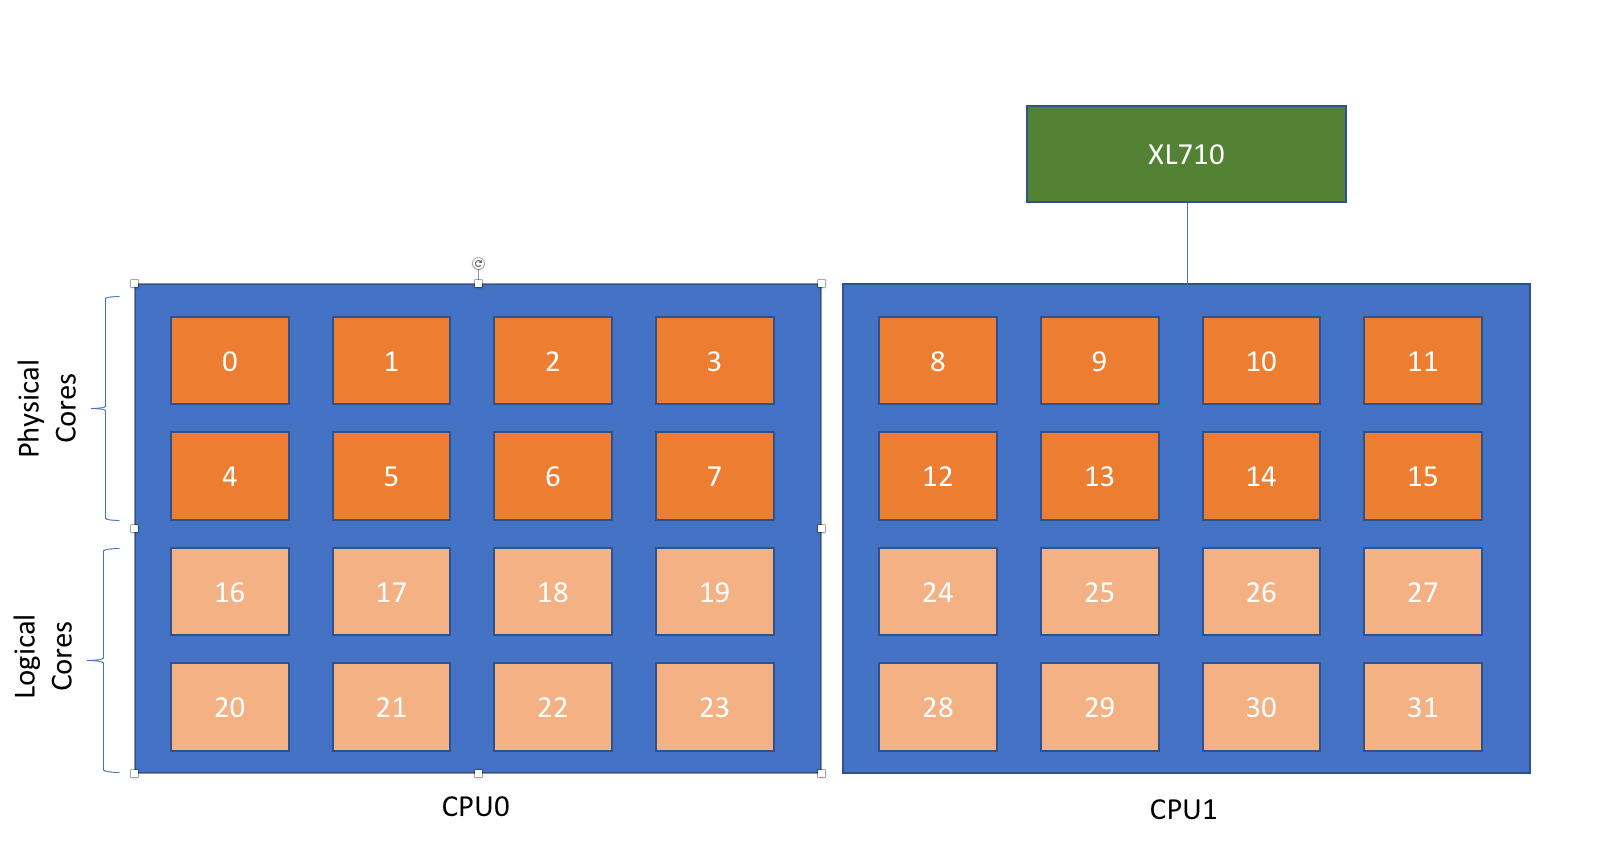
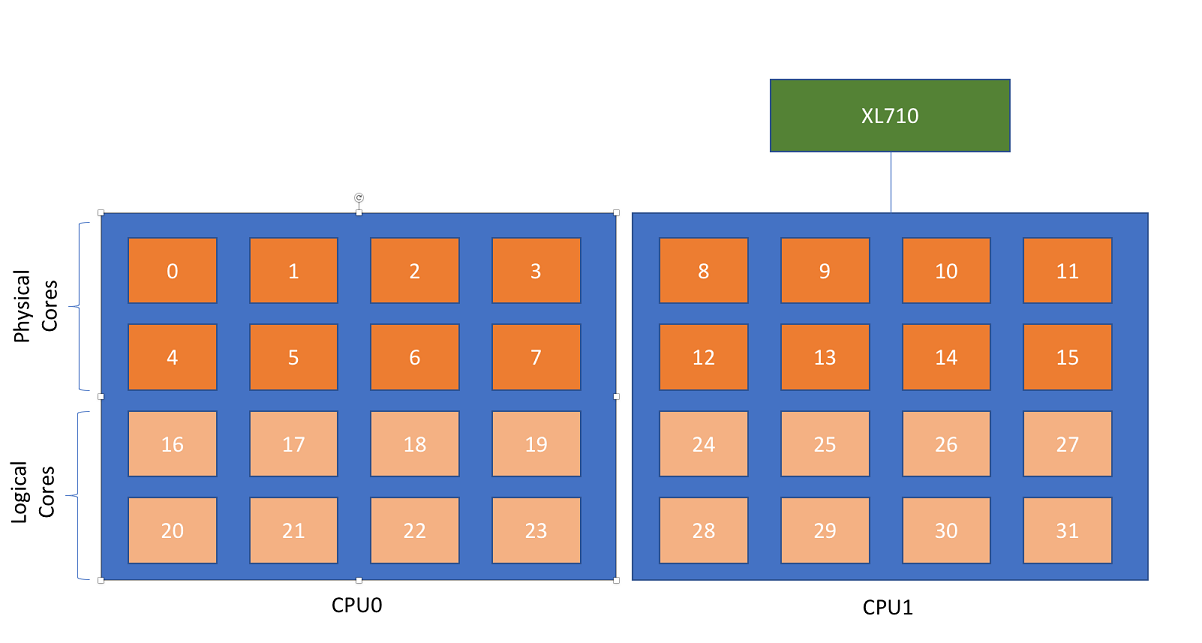
Added Network Design + Deployment Guide (#31)
* Add network documentation

* added missing pic

* wrong filetype

* correct png filetype

* fix text issue

* Set text as bold for now

* change list to bullets

* test fix

* spacing issue

* centered wording

* add to index

* shrink image sizes

* Shrink pics a little more

Changed region(s): [[0.0, 0.7465, 0.0308, 0.7776]]

diff --git a/docs/network_design_and_deployment.rst b/docs/network_design_and_deployment.rst
@@ -1,0 +1,184 @@
+===================================
+EDCOP Network Design and Deployment
+===================================
+
+.. contents::
+	:backlinks: none
+	
+
+
+Bill of Materials
+=================
+
++----------+---------------------------------+---------------------------------------------------------------+
+| Quantity | Product                         | Label                                                         |
++==========+=================================+===============================================================+
+| 1        | Cisco UCS C240-M5               | - 2 CPUS - Intel Xeon 4110 2.10GHz (8 cores, 16 threads each) |
+|          |                                 | - 196 GB of 2400 MHz RAM                                      |
+|          |                                 | - 1.7 TB x 10 drives                                          |
+|          |                                 | - Nodes (servers)                                             |
++----------+---------------------------------+---------------------------------------------------------------+
+| 1        | Arista 7050QX-32S               | Commodity 10/40 Gbps Switch                                   |
++----------+---------------------------------+---------------------------------------------------------------+
+| 1        | Juniper EX-3200                 | Commodity 1/10 Gbps Switch                                    |
++----------+---------------------------------+---------------------------------------------------------------+
+| 1        | 10Gtek CAB-QSFP/QSFP-P3M        | 40GBase DAC                                                   |
++----------+---------------------------------+---------------------------------------------------------------+
+| 5        | 10Gtek CAB-QSFP/4SFP-P3M        | 40Gb to (4) 10Gbps “octopus” or “break-out” cables            |
++----------+---------------------------------+---------------------------------------------------------------+
+| 6        | CAT-6 Ethernet Cables           |                                                               |
++----------+---------------------------------+---------------------------------------------------------------+
+| 1        | Gigamon Gigavue-HC2 (GVS-HC2A1) | Cards: SMT-HC0-X16, BPS-HC0-D25A4G (Inline/Passive TAP)       |
++----------+---------------------------------+---------------------------------------------------------------+
+| 6        | Intel XL710 40Gbps NIC          |                                                               |
++----------+---------------------------------+---------------------------------------------------------------+
+
+The Bill of Materials is used to build our reference architecture. Some assumed materials are:
+ - An upstream router to provide gateway and internet connectivity.
+ - Server rack with space and redundant power to house all the components.
+ 
+ 
+Installing the Hardware
+=======================
+ 
+Prior to racking and cabling your EDCOP cluster you must first install the Intel XL710 40/10Gbps NICs in each node, update their firmware and configure them to identify each port as a (4) 10Gbps port instead of (1) 40Gbps port.
+ 
+Upgrade the XL710 Firmware
+--------------------------
+ 
+Although there are numerous ways to perform the upgrade, it is recommended that the built-in EFI shell is utilized. This process has been verified as working. These instructions assume that is the case.
+ 
+These steps are as follows:
+ 
+1.	Power-off the server and install the Intel XL710-QDA2 card.
+2.	Copy the NVMUpdate EFI scripts onto a thumb-drive and insert into the USB port on the server.
+3.	Power-on the Server. When prompted, enter the BIOS boot selector menu and choose “EFI Shell” 
+4.	Follow the instructions at: https://www-ssl.intel.com/content/www/us/en/embedded/products/networking/nvm-update-tool-quick-efi-usage-guide.html
+5.	After this is complete, you may also utilize the Intel QCU utility to change the mode from 2x40 to 4x10.
+
+Converting from 2x40 to 4x10
+----------------------------
+
+The Intel XL710-QDA2 cards have two (2) QSFP+ ports. These cards can be utilized as either a single 40Gbps connection (with hot standby) using a QSFP+ to QSFP+ direct connect cable, or as four (4) 10Gbps connections using a break-out cable (also referred to as an octopus cable). This is convenient when connecting the card to a switch that only has 10Gbps interfaces.
+
+**NOTE: Upgrading of the firmware AND drivers must be done BEFORE attempting to change the mode.**
+
+Step for performing this are as follows:
+
+1.	Copy the QCU EFI utility to the thumb-drive. (https://downloadcenter.intel.com/download/25854/Intel-QSFP-Configuration-Utility-EFI-)
+2.	Reboot the server and enter the EFI shell. 
+3.	Follow the instructions at: https://downloadcenter.intel.com/download/25854/Intel-QSFP-Configuration-Utility-EFI
+
+	- For 2x40Gbps use: ``QCUW64E.EXE /NIC=3 /SET 2x40``
+	- For 4x10Gbps use: ``QCUW64E.EXE /NIC=3 /SET 4x10``
+
+
+Networks
+========
+
+.. image:: images/connectivity.png
+	:align: center
+
+When all of the components are cabled together it builds a couple small networks. There is a small 1Gbps network used for PXE booting the minions referred to as the “PXE network” (figure 1). A 10/40Gbps network for connecting the minions to the Arista switch called the “cluster network” (figure 2) while only the Master has a 40Gbps connection. No network traffic traverses either of those links, instead, only log events and sensor data traverses the 10/40Gbps backend network. 
+
+.. image:: images/edcop_network.png
+	:align: center
+
+PXE Network
+-----------
+
+The PXE Network is used by the minions on first boot so they can download the provisioning image from the Master. The PXE Network is not used for management throughout EDCOP.
+
+The management interface from each EDCOP node needs to be connected to a single broadcast domain. For cabling reference figure 1. This can be accomplished by connecting the 1Gb (typically) management interface from all the nodes to a single 1Gbps switch. Best practice is to create a new VLAN on the switch with the description or name “EDCOP-PXE”, and configure all ports connecting to the nodes to pass untagged traffic for that VLAN or as access ports in the specified VLAN.
+
+Once the Master is manually configured, it stands up its own DHCP server. As the minions boot they will request a DHCP address from the Master and begin to download the provisioning image. 
+
+Cluster Network
+---------------
+
+The Cluster Network is used for Node to Node communication. It is used to transmit and receive log events and sensor data, generated by the pods on each node back to the Master node. The TAP’d network traffic DOES NOT traverse these links. 
+
+The Minions each connect to the 40/10Gbps switch using the #1 link from the break-out cable from the above Bill of Materials. The Master uses a 40Gbps DAC connection to a 40Gbps interface on the switch.
+
+.. image:: images/backend.png
+	:align: center
+
+All the Cluster Network connections from the nodes to the switch should all be in a single VLAN. Best practice is to create a new VLAN on the 40/10Gbps switch with the name or description “EDCOP-CLUSTER” and configure all the Node facing interfaces as access ports or pass untagged traffic for the newly created VLAN.
+
+The EDCOP nodes will require external connectivity to fetch package updates and code/config deltas. You’ll need to configure an uplink to a router or gateway off of the 40/10Gbps switch so each of the nodes can reach-out to the internet or an externally hosted library. This will vary from installation to installation but a simple NAT gateway/boundary will work fine. 
+
+**Please have the upstream gateway defined/provisioned before completing the ‘first-boot’ process on the Master as it will do a network connectivity check before continuing.**
+
+
+Network TAP Connections
+=======================
+
+The tapping infrastructure is an integral part of our architecture. Currently every Minion has 3 connections to the TAP. Each connection uses one of the 3 remaining links from the break-out cable. The TAP itself must have ingress and egress interfaces available for the traffic you require visibility. 
+
+.. image:: images/tap_traffic_1.png
+	:align: center
+	
+As traffic ingresses the TAP from an untrusted/outside network it is load balanced across the Minions using session based persistence. The traffic traverses the tools/sensors on the Minions and is forwarded out towards the Gigamon. As the traffic passes through the Gigamon, to be forwarded towards your inside network, the traffic is TAP’d and sent to the Minions on the 3rd link where the traffic is observed by the passive tools. 
+
+.. image:: images/tap_traffic_2.png
+	:align: center
+	
+
+Deploy EDCOP as a Virtual Machine
+=================================
+
+If a virtual EDCOP is desired, deploying as a Virtual Machine (VM) can be a way to utilize your existing compute and storage resources. The networking stays mostly the same as described throughout this document however the implementation will be different. The example below will outline networking requirements and instructions for deploying EDCOP as a VM in VMware.
+
+Depending on your needs and design you may need to create up to 4 Port-Groups.
+
+- 1 Port-Group for a PXE Boot Network
+- 1 Port-Group for EDCOP cluster interfaces
+- 1 Port-Group for Inline-Ingress/Passive
+- 1 Port-Group for Inline-egress
+
+If you are deploying a “single” EDCOP VM for collecting syslog see architecture below. If there aren’t any other VM’s there is no need for the PXE Network. Also, since this single VM isn’t passing inline traffic, you will not need any additional Network Adapters on the VM. The physical NIC shown below can be a shared NIC, but the best practice is to give it its own physical NIC.
+
+.. image:: images/vm_single_sensor.png
+	:align: center
+	
+If you are considering deploying a sensor such as Suricata or Bro, we recommend deploying 2 VM’s. These VM’s will utilize the 4 Port-Groups referenced above. The “Inline-Ingress/Passive” and “Inline/Egress” interfaces must be their own physical NICs and those NICs must support ‘Promiscuous Mode’. The Cluster Network physical NIC can be a shared port but it is recommended to be its own physical interface. If both VM’s live on the same physical ESXi host, the PXE Network will exist only between VM’s and won’t leave the host. If your VM’s are on different physical hosts you’ll need to make sure the Cluster Network and PXE Network can be reached by both VMs.
+
+**WARNING:** The PXE Network has its own DHCP server. If this is introduced on a shared network segment, it can have adverse effects on existing hosts.
+
+.. image:: images/vm_multiple_sensors.png
+	:align: center
+	
+
+Appendix
+========
+
+Picture References:
+
+.. image:: images/breakout_cable_1.png
+	:align: center
+	
+.. centered:
+
+*Break-out Cable/Octopus Cable*
+
+.. image:: images/breakout_cable_2.png
+	:align: center
+	
+.. centered:
+
+*Break-out Cable/Octopus Cable*
+
+.. image:: images/dac_cable.png
+	:align: center
+	
+.. centered:
+
+*40Gbps DAC Cable*
+
+
+ERRATA
+======
+
+At the time of this writing we recommend using the Intel XL710 NIC per server (https://www.intel.com/content/www/us/en/ethernet-products/converged-network-adapters/ethernet-xl710-brief.html). 
+
+**CAVAET:** You can only use 1 port on the NIC at a time.

diff --git a/docs/index.rst b/docs/index.rst
@@ -17,6 +17,8 @@ Welcome to EDCOP's documentation!
 .. toctree::
    :maxdepth: 2
    :caption: Architecture:
+   
+   network_design_and_deployment
 
 .. toctree::
    :maxdepth: 2
